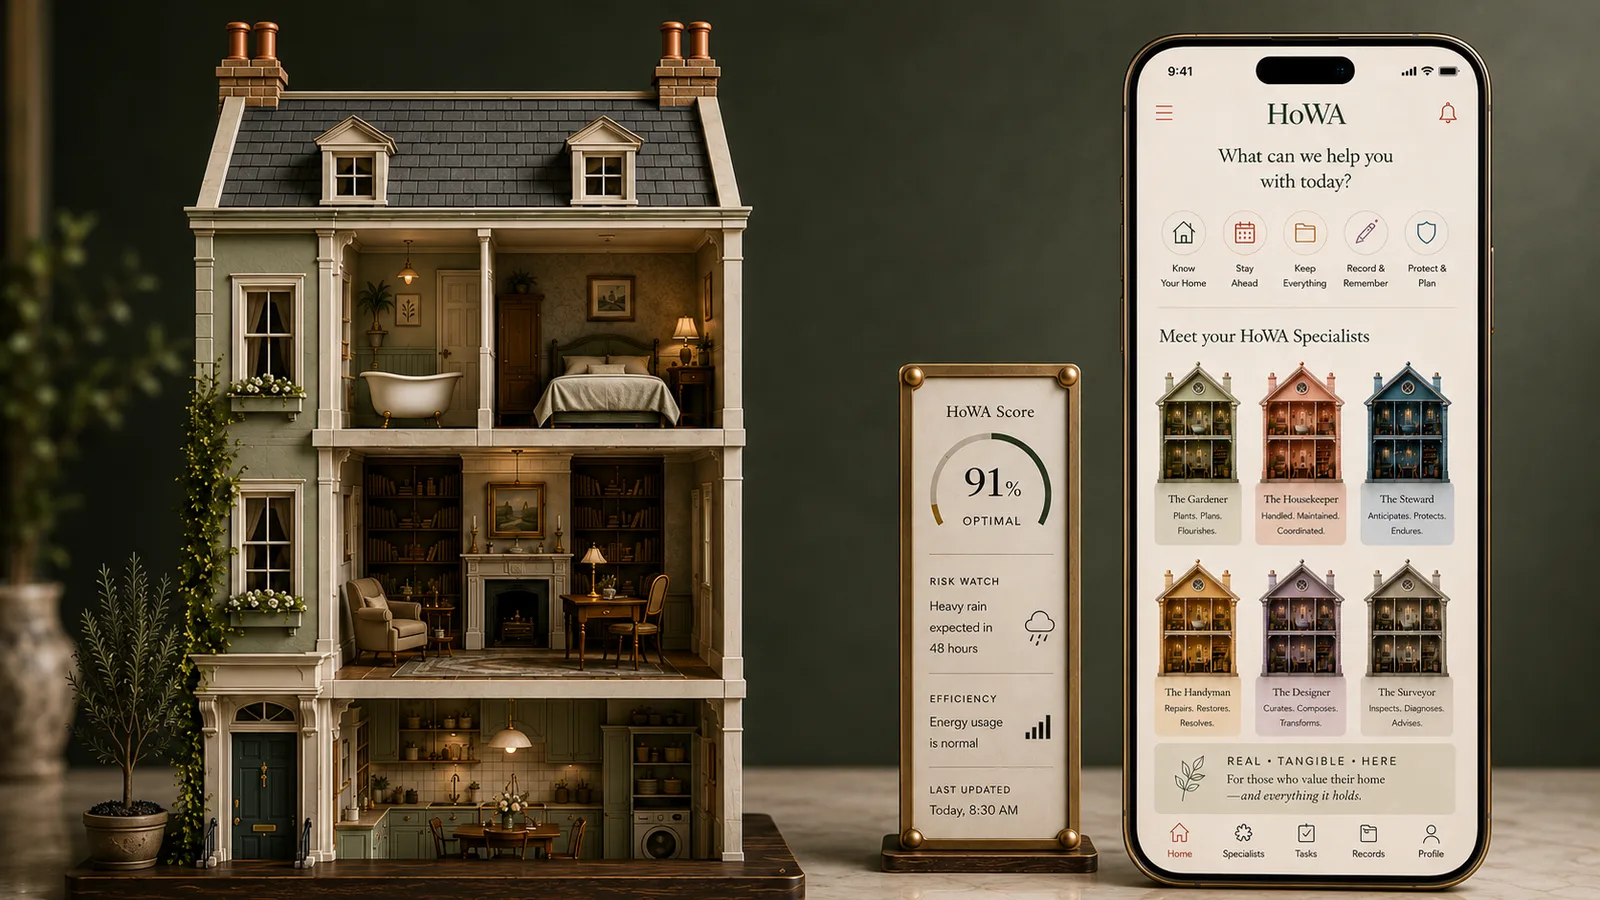
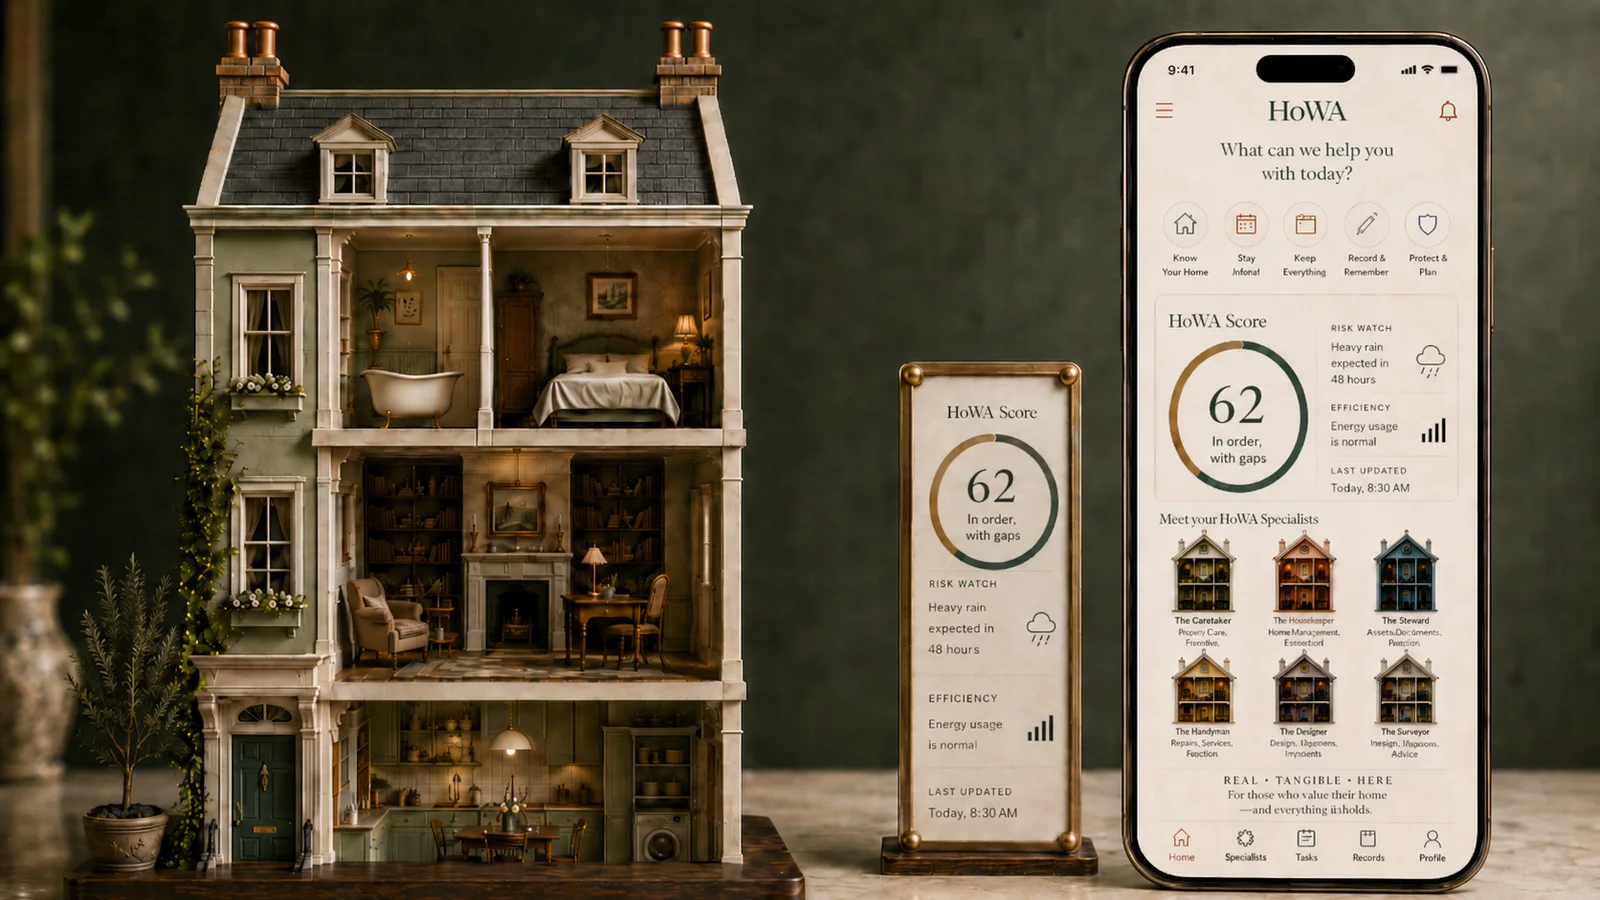
HoWA rebrand (localhost): pull askhowa Score dashboard demo + two-column Score section on homepage

Changed region(s): [[0.0312, 0.0311, 0.9375, 1.0], [0.0, 0.9956, 0.0312, 1.0]]

diff --git a/src/app/page.tsx b/src/app/page.tsx
@@ -96,50 +96,48 @@ export default async function HomePage() {
         </div>
       </section>
 
-      {/* 2. The Score is the first thing you understand */}
+      {/* 2. The Score — copy left, the HoWA Score demo on the right */}
       <section className="px-[5vw] py-16 bg-house-cream-dark border-t border-b border-house-brown/8">
-        <div className="max-w-[1000px] mx-auto">
-          <p className="font-sans text-[12px] tracking-[0.24em] uppercase text-house-gold-ink mb-4">
-            The HoWA Score
-          </p>
-          <h2 className="font-display text-[clamp(28px,3.6vw,46px)] leading-[1.08] text-house-black max-w-[20ch] mb-6">
-            The Score is the first thing you understand.
-          </h2>
-          <p className="font-sans text-[17px] leading-[1.7] text-house-brown/80 max-w-[62ch]">
-            A home can be valuable and still be unmanaged. Documents sit in
-            drawers. Services disappear into invoices. Repairs live in WhatsApp
-            threads. Small risks wait quietly until they cost money. HoWA gives
-            the home one clear measure of readiness: a living Score that improves
-            as the home becomes more known.
-          </p>
-          <ul className="grid gap-x-8 gap-y-2 sm:grid-cols-2 mt-8 max-w-[640px]">
-            {SCORE_REFLECTS.map((r) => (
-              <li
-                key={r}
-                className="font-sans text-[16px] text-house-brown/85 pl-5 relative before:content-['—'] before:absolute before:left-0 before:text-house-gold-ink"
-              >
-                {r}
-              </li>
-            ))}
-          </ul>
-          <div className="mt-9">
-            <Link href="/howa-score" className={ctaSecondary}>
-              See how the Score works →
-            </Link>
+        <div className="max-w-[1300px] mx-auto grid gap-12 lg:grid-cols-[1fr_1.05fr] lg:items-center">
+          <div>
+            <p className="font-sans text-[12px] tracking-[0.24em] uppercase text-house-gold-ink mb-4">
+              The HoWA Score
+            </p>
+            <h2 className="font-display text-[clamp(28px,3.6vw,46px)] leading-[1.08] text-house-black max-w-[20ch] mb-6">
+              The Score is the first thing you understand.
+            </h2>
+            <p className="font-sans text-[17px] leading-[1.7] text-house-brown/80 max-w-[54ch]">
+              A home can be valuable and still be unmanaged. Documents sit in
+              drawers. Services disappear into invoices. Repairs live in WhatsApp
+              threads. Small risks wait quietly until they cost money. HoWA gives
+              the home one clear measure of readiness: a living Score that
+              improves as the home becomes more known.
+            </p>
+            <ul className="grid gap-x-8 gap-y-2 sm:grid-cols-2 mt-8">
+              {SCORE_REFLECTS.map((r) => (
+                <li
+                  key={r}
+                  className="font-sans text-[16px] text-house-brown/85 pl-5 relative before:content-['—'] before:absolute before:left-0 before:text-house-gold-ink"
+                >
+                  {r}
+                </li>
+              ))}
+            </ul>
+            <div className="mt-9">
+              <Link href="/howa-score" className={ctaSecondary}>
+                See how the Score works →
+              </Link>
+            </div>
           </div>
-        </div>
-      </section>
-
-      {/* Score dashboard visual */}
-      <section className="px-[5vw] py-12 max-w-[1080px] mx-auto">
-        <div className="relative aspect-[16/9] overflow-hidden bg-house-cream-dark border border-house-brown/10">
-          <Image
-            src="/howa/score-dashboard.webp"
-            alt="A HoWA Score dashboard: one living number for a home well kept"
-            fill
-            sizes="(min-width:1024px) 1020px, 100vw"
-            className="object-cover"
-          />
+          <div className="relative aspect-[16/9] overflow-hidden bg-house-cream border border-house-brown/12">
+            <Image
+              src="/howa/score-dashboard.webp"
+              alt="A HoWA Score dashboard: one living number for a home well kept, with what matters first"
+              fill
+              sizes="(min-width:1024px) 640px, 100vw"
+              className="object-cover"
+            />
+          </div>
         </div>
       </section>
 
